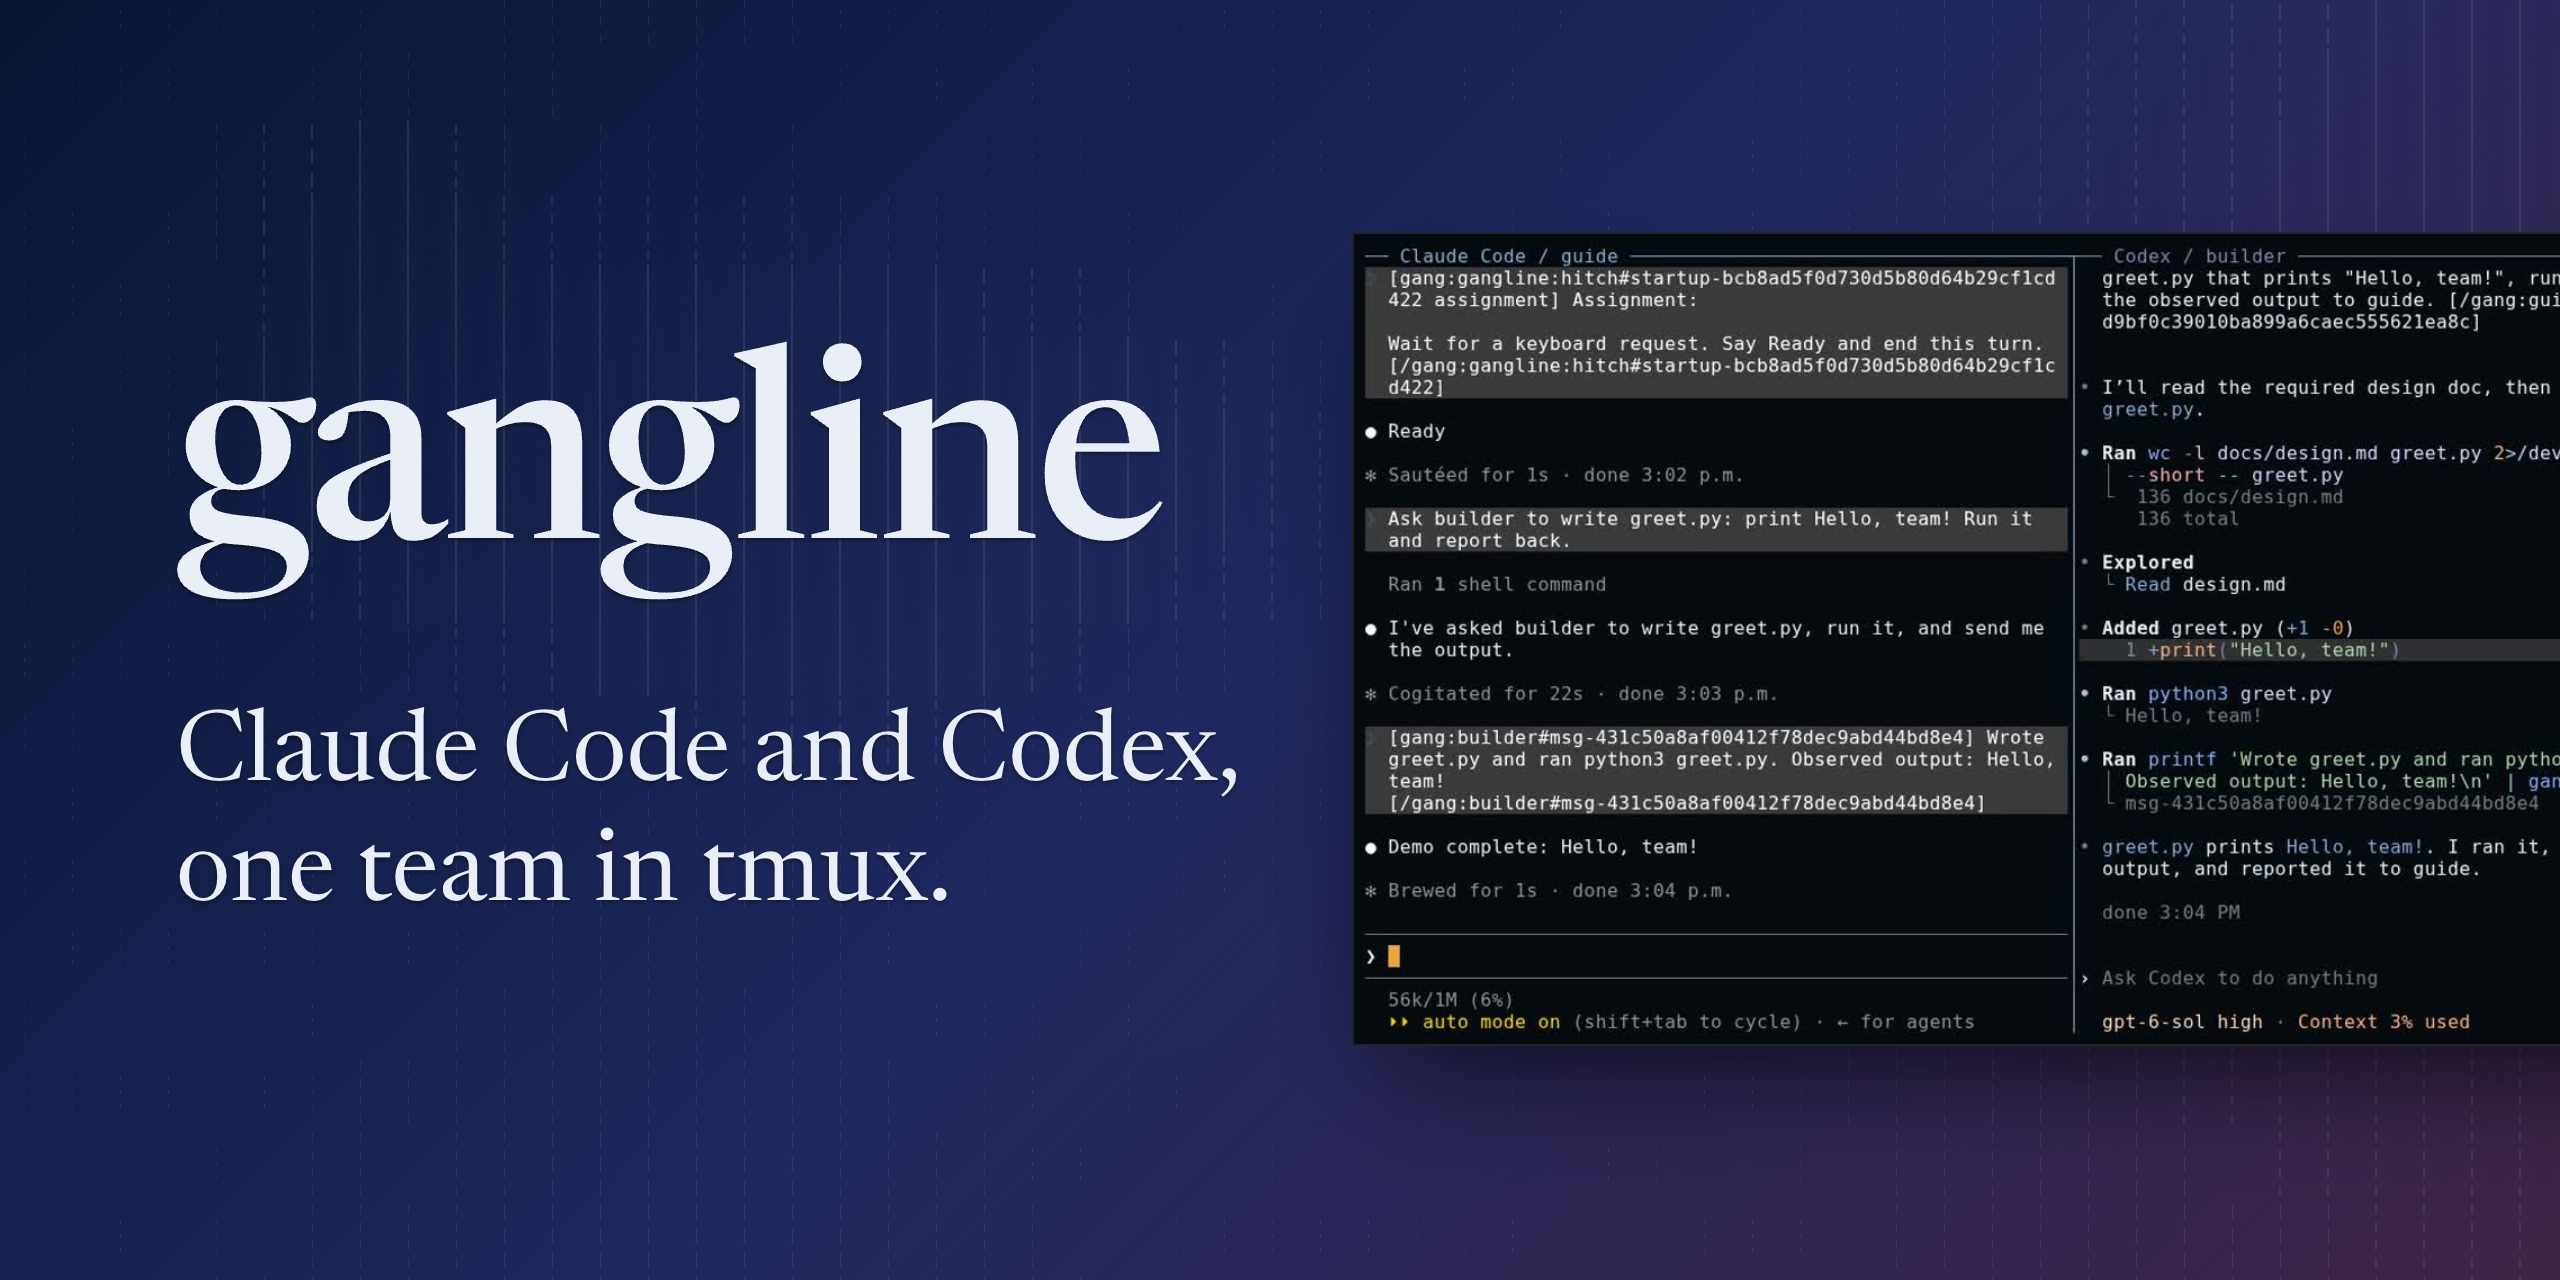
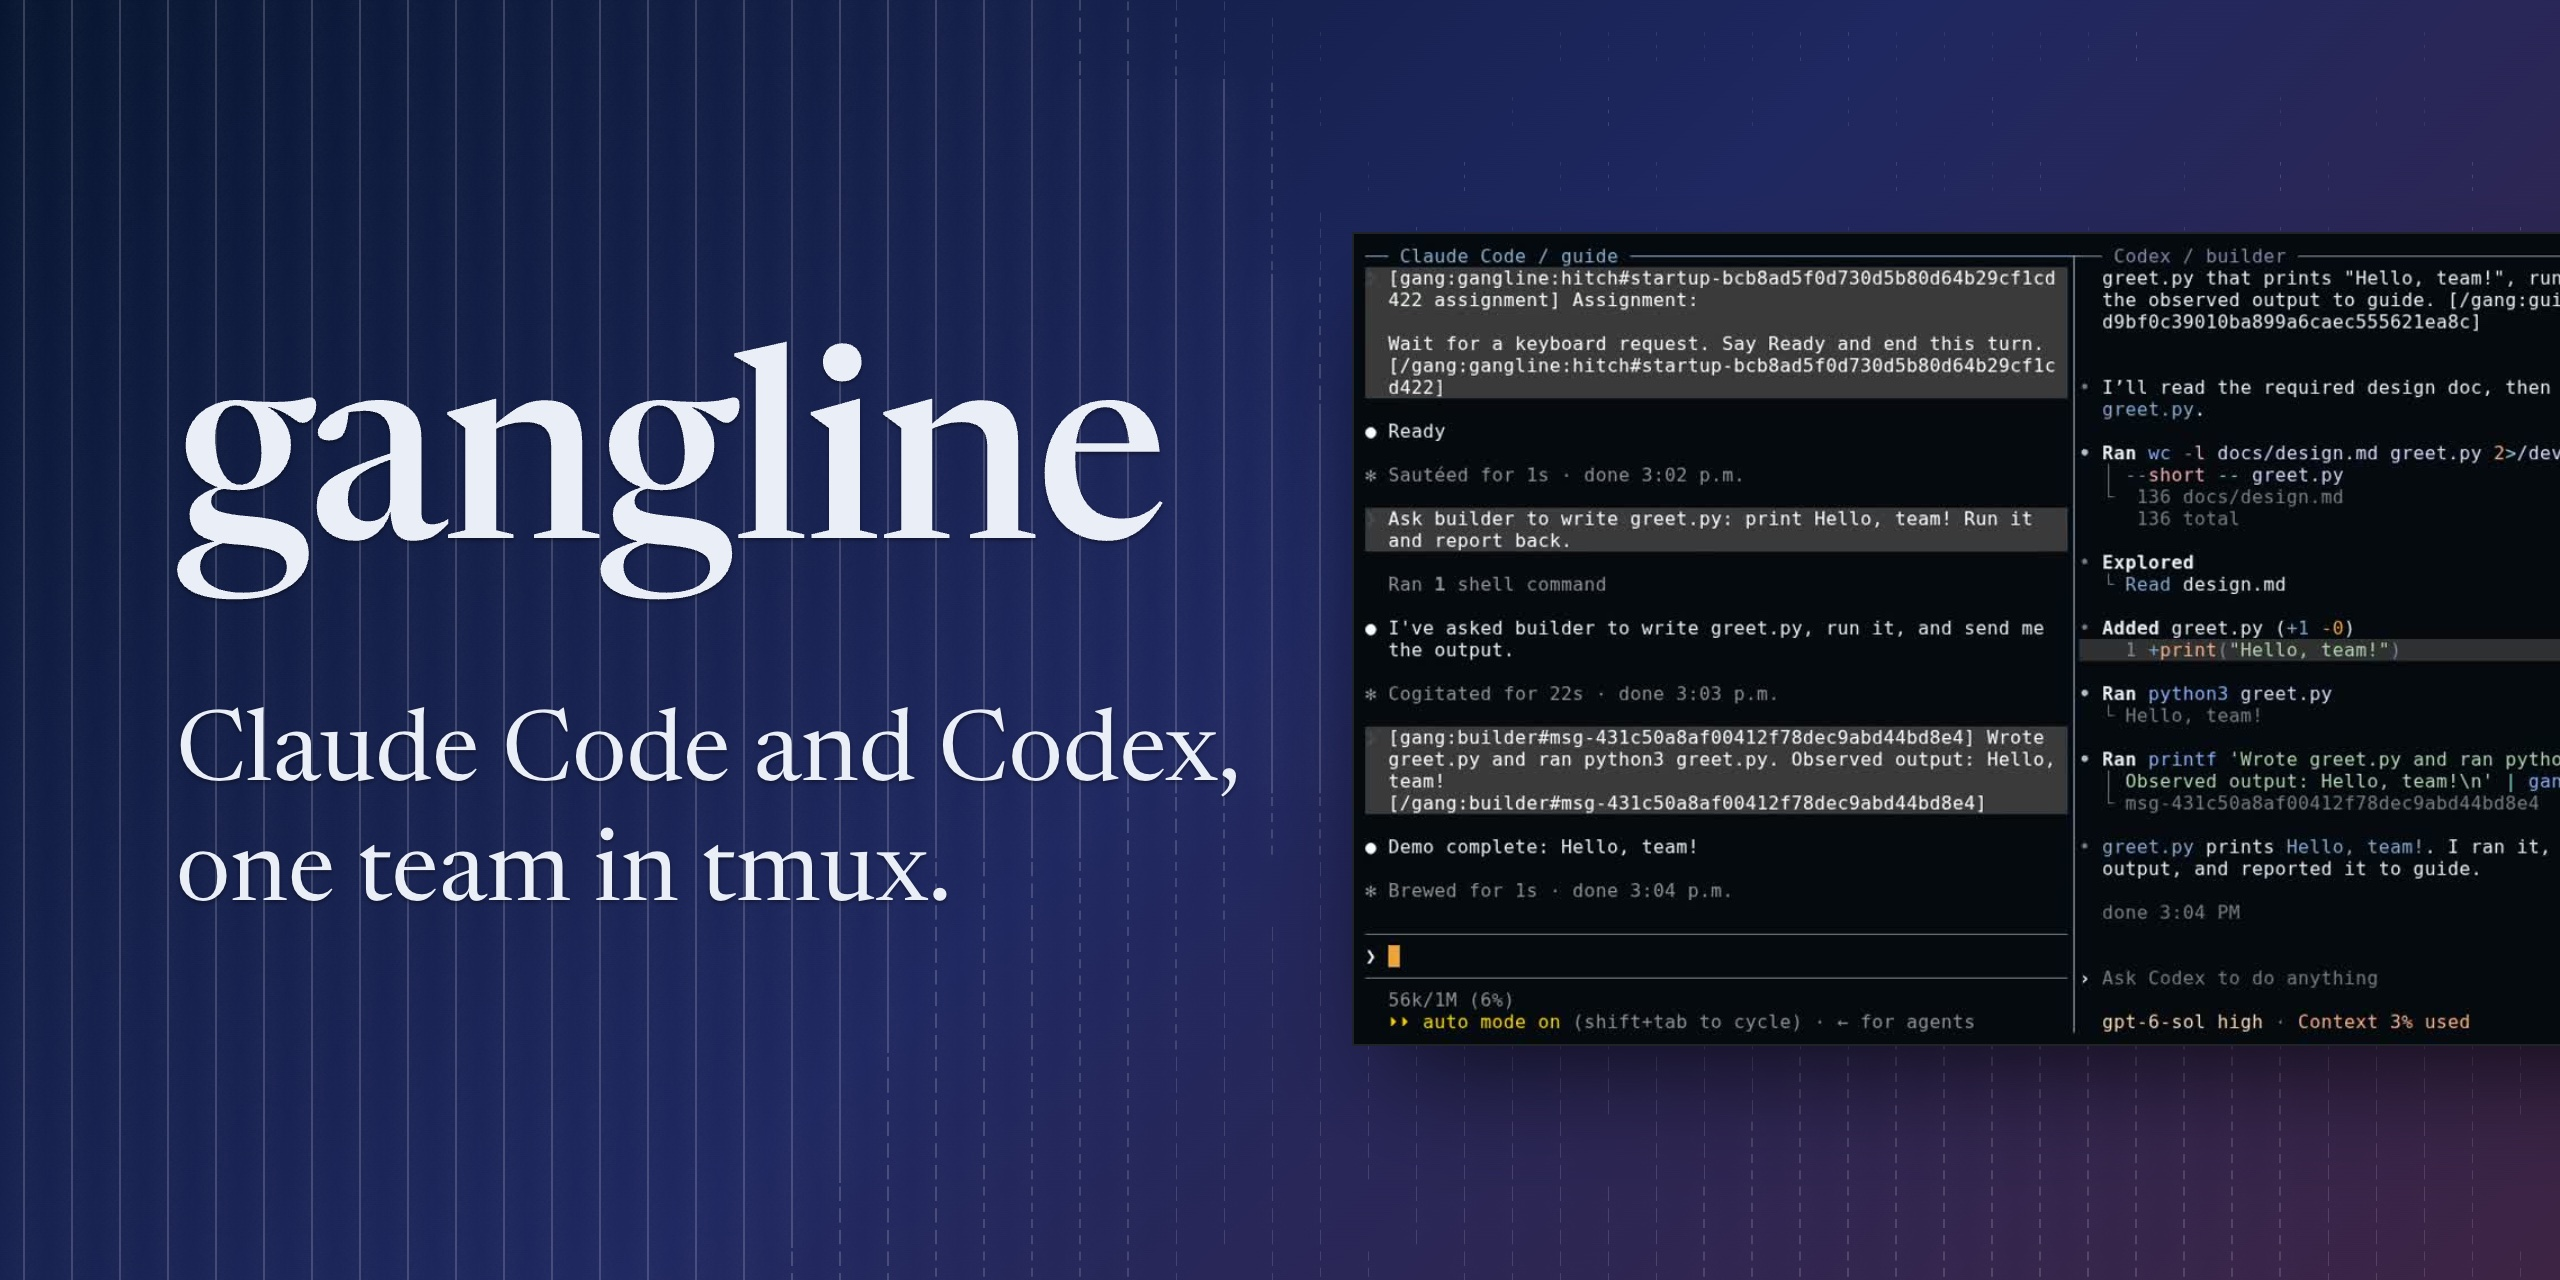
fix(site): render the social card's field at the card's true size
Headless Chrome gives a page a viewport shorter than its window, so the
card's field was sized for 640 by 233 and stretched over the 640 by 320
card. The render window is now taller than the card and the screenshot is
cropped to it, and the page frames itself in red when the viewport is
wrong.

The tagline gathers the field like the wordmark, the demo poster no longer
pushes it away, and the card draws the field's lines 1.8 times as strong
as the site, since the card is shown small with little text over it.

diff --git a/site/social/card.html b/site/social/card.html
@@ -1,14 +1,20 @@
 <!doctype html><meta charset="utf-8">
-<!-- The GitHub social preview, site/social/preview.jpg. Render it at 1280 by
-     640 with headless Chrome from the repository root:
-     "/Applications/Google Chrome.app/Contents/MacOS/Google Chrome" --headless=new --allow-file-access-from-files --hide-scrollbars --window-size=640,320 --force-device-scale-factor=4 --virtual-time-budget=8000 --screenshot=card.png site/social/card.html
-     then convert card.png to site/social/preview.jpg, which must stay under
-     GitHub's 1 MB limit, and upload it under the repository's Settings,
-     Social preview. It uses the site's dark palette, fonts, field.js and demo
-     poster, so it matches the home page. The page is 640 by 320 at four
-     times density, with the card zoomed to half inside it, so the field's
-     lines come out at twice their size on the site and still read when
-     the card is shown small. -->
+<!-- The GitHub social preview, site/social/preview.jpg. Render it with
+     headless Chrome from the repository root:
+     "/Applications/Google Chrome.app/Contents/MacOS/Google Chrome" --headless=new --allow-file-access-from-files --hide-scrollbars --window-size=640,407 --force-device-scale-factor=4 --virtual-time-budget=8000 --screenshot=card.png site/social/card.html
+     then crop card.png to its top 2560 by 1280, convert it to
+     site/social/preview.jpg, which must stay under GitHub's 1 MB limit, and
+     upload it under the repository's Settings, Social preview. Headless
+     Chrome's viewport is shorter than the window it is given, so the window
+     is taller than the card; the page frames itself in red if the viewport
+     is not the card's 640 by 320, since the field sizes itself to the
+     viewport and would be stretched.
+
+     It uses the site's dark palette, fonts, field.js and demo poster, so it
+     matches the home page. The page is 640 by 320 at four times density,
+     with the card zoomed to half inside it, so the field's lines come out at
+     twice their size on the site and still read when the card is shown
+     small. -->
 <meta name="color-scheme" content="dark">
 <style>
 @font-face{font-family:'Newsreader';src:url('../fonts/newsreader-latin.woff2') format('woff2');font-weight:200 800}
@@ -23,22 +29,32 @@ body{width:640px;height:320px;overflow:hidden;position:relative}
 h1{margin:0;font:500 132px/1 'Newsreader',serif;letter-spacing:-.015em}
 .st{margin:44px 0 0;max-width:540px;font:400 50px/1.2 'Newsreader',serif;text-wrap:balance}
 .term{position:absolute;left:676px;top:116px;width:720px;border:1px solid rgba(255,255,255,.11);background:#05090f;box-shadow:0 28px 56px -20px rgba(0,0,0,.7)}
-.term img{display:block;width:100%;height:auto}
+.term{height:405px;background:#05090f url(../demo-poster.jpg) 0 0/100% auto no-repeat}
 </style>
 <div class="bgfx"><canvas id="field"></canvas></div>
 <div class="card">
 <div class="t">
   <h1 data-blob>gangline</h1>
-  <p class="st">Claude Code and Codex, one team in tmux.</p>
+  <p class="st" data-blob>Claude Code and Codex, one team in tmux.</p>
 </div>
-<div class="term"><img src="../demo-poster.jpg" alt=""></div>
+<div class="term"></div>
 </div>
 <script>
-/* The field caps its canvas at twice the screen's density; the card needs
-   all four times. */
+if (innerWidth !== 640 || innerHeight !== 320) document.body.style.boxShadow = 'inset 0 0 0 12px red';
+/* Two changes to field.js for the card. It caps its canvas at twice the
+   screen's density, and the card needs all four times. It draws its lines
+   faint enough to sit behind a page of text; the card has little text and
+   is shown small, so it draws them INK times as strong. */
+const INK = 1.8;
 const x = new XMLHttpRequest();
 x.open('GET', '../field.js', false); x.send();
-const lifted = x.responseText.replace('Math.min(2, devicePixelRatio || 1)', '(devicePixelRatio || 1)');
-if (lifted === x.responseText) throw new Error('field.js density cap not found');
-new Function(lifted)();
+let src = x.responseText;
+for (const [from, to] of [
+  ['Math.min(2, devicePixelRatio || 1)', '(devicePixelRatio || 1)'],
+  ['ctx.globalAlpha = Math.min(0.11, 0.06 + Math.max(0, v - 0.1) * 0.1) * tw', `ctx.globalAlpha = ${INK} * Math.min(0.11, 0.06 + Math.max(0, v - 0.1) * 0.1) * tw`],
+]) {
+  if (!src.includes(from)) throw new Error('field.js has changed: ' + from);
+  src = src.replace(from, to);
+}
+new Function(src)();
 </script>
